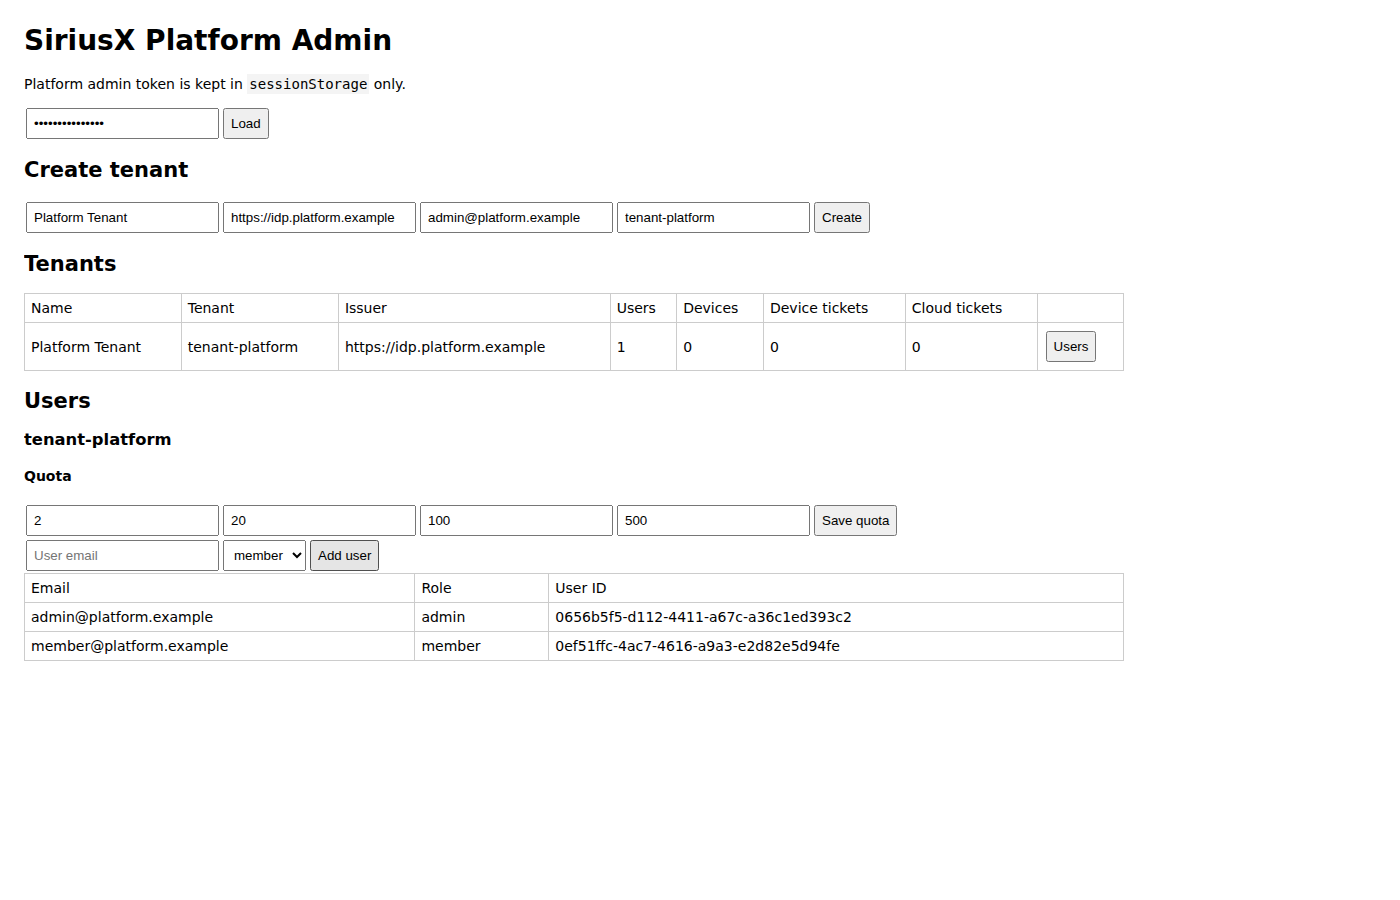
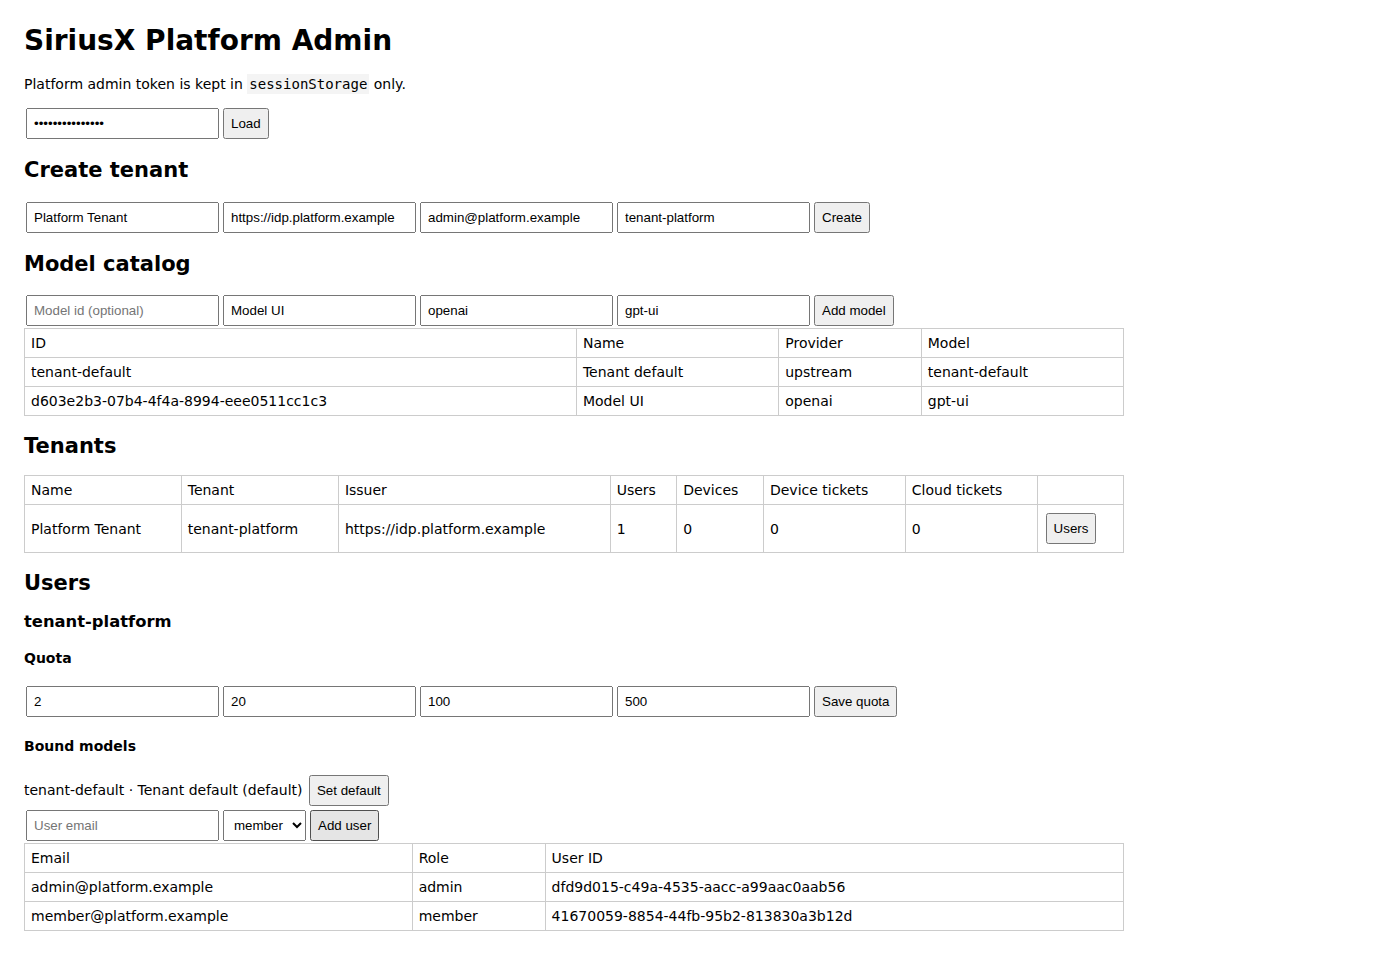
feat: add a tenant model catalog and binding UI

diff --git a/apps/control-plane/src/server.ts b/apps/control-plane/src/server.ts
@@ -99,6 +99,7 @@ export async function startControlPlaneServer(options: ControlPlaneServerOptions
 <p>Platform admin token is kept in <code>sessionStorage</code> only.</p>
 <div><input id="token" type="password" placeholder="X-SiriusX-Platform-Token"><button id="load">Load</button></div>
 <div id="create"><h2>Create tenant</h2><input id="name" placeholder="Name"><input id="issuer" placeholder="IdP issuer"><input id="email" placeholder="Admin email"><input id="tenantId" placeholder="Tenant id (optional)"><button id="createTenant">Create</button></div>
+<div id="models"><h2>Model catalog</h2><input id="modelId" placeholder="Model id (optional)"><input id="modelName" placeholder="Display name"><input id="modelProvider" placeholder="Provider"><input id="modelNameId" placeholder="Provider model id"><button id="createModel">Add model</button><div id="modelList">Load to begin.</div></div>
 <h2>Tenants</h2><div id="tenants">Load to begin.</div>
 <h2 id="usersTitle" style="display:none">Users</h2><div id="users"></div>
 <div id="error" style="color:#b00020"></div>
@@ -108,6 +109,13 @@ const headers = () => ({'x-siriusx-platform-token': token(), 'content-type': 'ap
 const err = e => document.getElementById('error').textContent = e instanceof Error ? e.message : String(e);
 async function api(path, init = {}) { const r = await fetch(path, {...init, headers: headers()}); const v = await r.json(); if (!r.ok) throw new Error(v.error || ('HTTP ' + r.status)); return v; }
 function row(text) { const tr = document.createElement('tr'); for (const value of text) { const td = document.createElement('td'); td.textContent = String(value); tr.append(td); } return tr; }
+async function loadModels() {
+  const data = await api('/v1/admin/models');
+  const host = document.getElementById('modelList'); host.textContent = '';
+  const table = document.createElement('table'); table.append(row(['ID','Name','Provider','Model']));
+  for (const model of data.models) table.append(row([model.id, model.name, model.provider, model.model]));
+  host.append(table);
+}
 async function loadTenants() {
   err('');
   const data = await api('/v1/admin/tenants');
@@ -128,13 +136,17 @@ async function loadUsers(tenantId) {
   const q = document.createElement('div'); q.innerHTML = '<h4>Quota</h4><input id="maxUsers" placeholder="Max users"><input id="maxDevices" placeholder="Max devices"><input id="maxCloud" placeholder="Max cloud/day"><input id="maxDevice" placeholder="Max device tickets/day"><button id="saveQuota">Save quota</button>'; host.append(q);
   q.querySelector('#maxUsers').value = quota.quota.maxUsers; q.querySelector('#maxDevices').value = quota.quota.maxDevices; q.querySelector('#maxCloud').value = quota.quota.maxCloudTicketsPerDay; q.querySelector('#maxDevice').value = quota.quota.maxDeviceTicketsPerDay;
   q.querySelector('#saveQuota').onclick = async () => { try { await api('/v1/admin/tenants/' + encodeURIComponent(tenantId) + '/quota', {method:'PUT', body: JSON.stringify({maxUsers:Number(q.querySelector('#maxUsers').value), maxDevices:Number(q.querySelector('#maxDevices').value), maxCloudTicketsPerDay:Number(q.querySelector('#maxCloud').value), maxDeviceTicketsPerDay:Number(q.querySelector('#maxDevice').value)})}); await loadUsers(tenantId); } catch (e) { err(e); } };
+  const tm = await api('/v1/admin/tenants/' + encodeURIComponent(tenantId) + '/models');
+  const modelBox = document.createElement('div'); modelBox.innerHTML = '<h4>Bound models</h4>'; host.append(modelBox);
+  for (const model of tm.models) { const div = document.createElement('div'); div.textContent = model.id + ' · ' + model.name + (model.isDefault ? ' (default)' : '') + ' '; const button = document.createElement('button'); button.textContent = 'Set default'; button.onclick = async () => { try { await api('/v1/admin/tenants/' + encodeURIComponent(tenantId) + '/models/' + encodeURIComponent(model.id), {method:'PUT', body: JSON.stringify({isDefault:true})}); await loadUsers(tenantId); } catch (e) { err(e); } }; div.append(button); modelBox.append(div); }
   const add = document.createElement('div'); add.innerHTML = '<input id="newEmail" placeholder="User email"><select id="newRole"><option>member</option><option>admin</option></select><button id="addUser">Add user</button>'; host.append(add);
   add.querySelector('#addUser').onclick = async () => { try { await api('/v1/admin/tenants/' + encodeURIComponent(tenantId) + '/users', {method:'POST', body: JSON.stringify({email: add.querySelector('#newEmail').value, role: add.querySelector('#newRole').value})}); await loadUsers(tenantId); } catch (e) { err(e); } };
   const table = document.createElement('table'); table.append(row(['Email','Role','User ID']));
   for (const user of data.users) table.append(row([user.email, user.role, user.userId]));
   host.append(table);
 }
-document.getElementById('load').onclick = async () => { try { sessionStorage.setItem('platformToken', document.getElementById('token').value); await loadTenants(); } catch (e) { err(e); } };
+document.getElementById('load').onclick = async () => { try { sessionStorage.setItem('platformToken', document.getElementById('token').value); await Promise.all([loadTenants(), loadModels()]); } catch (e) { err(e); } };
+document.getElementById('createModel').onclick = async () => { try { await api('/v1/admin/models', {method:'POST', body: JSON.stringify({id: document.getElementById('modelId').value || undefined, name: document.getElementById('modelName').value, provider: document.getElementById('modelProvider').value, model: document.getElementById('modelNameId').value})}); await loadModels(); } catch (e) { err(e); } };
 document.getElementById('createTenant').onclick = async () => { try { await api('/v1/admin/tenants', {method:'POST', body: JSON.stringify({name:document.getElementById('name').value, idpIssuer:document.getElementById('issuer').value, adminEmail:document.getElementById('email').value, ...(document.getElementById('tenantId').value === '' ? {} : {tenantId:document.getElementById('tenantId').value})})}); await loadTenants(); } catch (e) { err(e); } };
 </script>`)
         return
@@ -208,6 +220,24 @@ document.getElementById('createTenant').onclick = async () => { try { await api(
           write(response, 201, { tenant })
           return
         }
+        if (parts[2] === 'models' && parts[3] === undefined) {
+          if (request.method === 'GET') { write(response, 200, { models: control.listModelCatalog() }); return }
+          if (request.method === 'POST') {
+            const body = await readJson(request)
+            if (typeof body.name !== 'string' || typeof body.provider !== 'string' || typeof body.model !== 'string') throw new Error('name, provider and model are required')
+            write(response, 201, control.addModel({ name: body.name, provider: body.provider, model: body.model, ...(typeof body.id === 'string' ? { id: body.id } : {}) }))
+            return
+          }
+        }
+        if (parts[2] === 'tenants' && parts[3] !== undefined && parts[4] === 'models') {
+          if (request.method === 'GET' && parts[5] === undefined) { write(response, 200, { models: control.listTenantModels(parts[3]) }); return }
+          if (request.method === 'PUT' && parts[5] !== undefined) {
+            const body = await readJson(request)
+            control.bindTenantModel(parts[3], parts[5], body.isDefault === true)
+            write(response, 200, { models: control.listTenantModels(parts[3]) })
+            return
+          }
+        }
         if (parts[2] === 'tenants' && parts[3] !== undefined && parts[4] === 'quota' && parts[5] === undefined) {
           if (request.method === 'GET') { write(response, 200, { quota: control.getQuota(parts[3]), usage: control.tenantUsage(parts[3]) }); return }
           if (request.method === 'PUT') {
@@ -248,6 +278,16 @@ document.getElementById('createTenant').onclick = async () => { try { await api(
       }
       if (request.method === 'GET' && url.pathname === '/v1/quota') {
         write(response, 200, { quota: control.getQuota(session.tenantId), usage: control.tenantUsage(session.tenantId) })
+        return
+      }
+      if (request.method === 'GET' && url.pathname === '/v1/models') {
+        write(response, 200, { models: control.listTenantModels(session.tenantId) })
+        return
+      }
+      if (request.method === 'PUT' && parts[0] === 'v1' && parts[1] === 'models' && parts[2] !== undefined && parts[3] === 'default') {
+        if (session.role !== 'admin') throw new ControlPlaneError(403, 'ADMIN_REQUIRED', 'admin role required')
+        control.bindTenantModel(session.tenantId, parts[2], true)
+        write(response, 200, { models: control.listTenantModels(session.tenantId) })
         return
       }
       if (parts[0] === 'v1' && parts[1] === 'users') {

diff --git a/apps/control-plane/src/index.ts b/apps/control-plane/src/index.ts
@@ -103,6 +103,20 @@ CREATE TABLE IF NOT EXISTS pairing_codes (
   expires_at INTEGER NOT NULL,
   consumed_at INTEGER
 );
+CREATE TABLE IF NOT EXISTS model_catalog (
+  id TEXT PRIMARY KEY,
+  name TEXT NOT NULL,
+  provider TEXT NOT NULL,
+  model TEXT NOT NULL,
+  enabled INTEGER NOT NULL DEFAULT 1,
+  created_at INTEGER NOT NULL
+);
+CREATE TABLE IF NOT EXISTS tenant_models (
+  tenant_id TEXT NOT NULL REFERENCES tenants(id),
+  model_id TEXT NOT NULL REFERENCES model_catalog(id),
+  is_default INTEGER NOT NULL DEFAULT 0,
+  PRIMARY KEY (tenant_id, model_id)
+);
 CREATE TABLE IF NOT EXISTS tenant_quotas (
   tenant_id TEXT PRIMARY KEY REFERENCES tenants(id),
   max_users INTEGER NOT NULL,
@@ -195,6 +209,8 @@ export class ControlPlane {
     this.#dataDir = options.dataDir
     this.#secret = options.sessionSecret ?? randomBytes(32).toString('base64url')
     this.#now = options.now ?? Date.now
+    this.#db.prepare('INSERT OR IGNORE INTO model_catalog (id, name, provider, model, enabled, created_at) VALUES (?, ?, ?, ?, 1, ?)').run('tenant-default', 'Tenant default', 'upstream', 'tenant-default', this.#now())
+    this.#db.prepare('INSERT OR IGNORE INTO tenant_models (tenant_id, model_id, is_default) SELECT id, ?, 1 FROM tenants').run('tenant-default')
     this.#db.prepare('INSERT OR IGNORE INTO tenant_quotas (tenant_id, max_users, max_devices, max_cloud_tickets_per_day, max_device_tickets_per_day, updated_at) SELECT id, 50, 20, 100, 500, ? FROM tenants').run(this.#now())
     const deviceColumns = this.#db.prepare('PRAGMA table_info(devices)').all() as Array<{ name: string }>
     if (!deviceColumns.some(column => column.name === 'token_expires_at')) this.#db.exec('ALTER TABLE devices ADD COLUMN token_expires_at INTEGER')
@@ -226,6 +242,7 @@ export class ControlPlane {
       this.#db.prepare('INSERT INTO tenants (id, name, idp_issuer, created_at) VALUES (?, ?, ?, ?)')
         .run(id, input.name, input.idpIssuer, now)
       this.#db.prepare('INSERT INTO settings (tenant_id) VALUES (?)').run(id)
+      this.#db.prepare('INSERT OR IGNORE INTO tenant_models (tenant_id, model_id, is_default) VALUES (?, ?, 1)').run(id, 'tenant-default')
       this.#db.prepare('INSERT INTO tenant_quotas (tenant_id, max_users, max_devices, max_cloud_tickets_per_day, max_device_tickets_per_day, updated_at) VALUES (?, 50, 20, 100, 500, ?)').run(id, now)
       this.#db.prepare('INSERT INTO users (id, tenant_id, email, role, created_at) VALUES (?, ?, ?, ?, ?)')
         .run(randomUUID(), id, input.adminEmail, 'admin', now)
@@ -241,6 +258,33 @@ export class ControlPlane {
     return (this.#db.prepare('SELECT * FROM tenants ORDER BY created_at, rowid').all() as Array<{
       id: string; name: string; idp_issuer: string; created_at: number
     }>).map(row => ({ id: row.id, name: row.name, idpIssuer: row.idp_issuer, createdAt: row.created_at }))
+  }
+
+  listModelCatalog(): Array<{ id: string; name: string; provider: string; model: string; enabled: boolean }> {
+    return (this.#db.prepare('SELECT * FROM model_catalog ORDER BY created_at, rowid').all() as Array<{
+      id: string; name: string; provider: string; model: string; enabled: number
+    }>).map(row => ({ id: row.id, name: row.name, provider: row.provider, model: row.model, enabled: row.enabled === 1 }))
+  }
+
+  addModel(input: { id?: string; name: string; provider: string; model: string }): { id: string } {
+    const id = input.id ?? randomUUID()
+    this.#db.prepare('INSERT INTO model_catalog (id, name, provider, model, enabled, created_at) VALUES (?, ?, ?, ?, 1, ?)').run(id, input.name, input.provider, input.model, this.#now())
+    return { id }
+  }
+
+  listTenantModels(tenantId: string): Array<{ id: string; name: string; provider: string; model: string; isDefault: boolean }> {
+    this.tenantRow(tenantId)
+    return (this.#db.prepare('SELECT c.*, tm.is_default FROM tenant_models tm JOIN model_catalog c ON c.id = tm.model_id WHERE tm.tenant_id = ? AND c.enabled = 1 ORDER BY tm.is_default DESC, c.created_at').all(tenantId) as Array<{
+      id: string; name: string; provider: string; model: string; is_default: number
+    }>).map(row => ({ id: row.id, name: row.name, provider: row.provider, model: row.model, isDefault: row.is_default === 1 }))
+  }
+
+  bindTenantModel(tenantId: string, modelId: string, isDefault = false): void {
+    this.tenantRow(tenantId)
+    const model = this.#db.prepare('SELECT id FROM model_catalog WHERE id = ? AND enabled = 1').get(modelId) as { id: string } | undefined
+    if (model === undefined) throw new ControlPlaneError(404, 'MODEL_NOT_FOUND', modelId)
+    if (isDefault) this.#db.prepare('UPDATE tenant_models SET is_default = 0 WHERE tenant_id = ?').run(tenantId)
+    this.#db.prepare('INSERT OR REPLACE INTO tenant_models (tenant_id, model_id, is_default) VALUES (?, ?, ?)').run(tenantId, modelId, isDefault ? 1 : 0)
   }
 
   getQuota(tenantId: string): { maxUsers: number; maxDevices: number; maxCloudTicketsPerDay: number; maxDeviceTicketsPerDay: number } {

diff --git a/evidence/S5/15-platform-admin-ui/run.ts b/evidence/S5/15-platform-admin-ui/run.ts
@@ -15,13 +15,20 @@ try {
   await page.getByPlaceholder('X-SiriusX-Platform-Token').fill('platform-secret')
   await page.getByRole('button', { name: 'Load' }).click()
   await page.waitForTimeout(300)
-  await page.getByPlaceholder('Name').fill('Platform Tenant')
+  await page.getByPlaceholder('Display name').fill('Model UI')
+  await page.getByPlaceholder('Provider', { exact: true }).fill('openai')
+  await page.getByPlaceholder('Provider model id').fill('gpt-ui')
+  await page.getByRole('button', { name: 'Add model' }).click()
+  await page.waitForTimeout(400)
+  await page.getByPlaceholder('Name', { exact: true }).fill('Platform Tenant')
   await page.getByPlaceholder('IdP issuer').fill('https://idp.platform.example')
   await page.getByPlaceholder('Admin email').fill('admin@platform.example')
   await page.getByPlaceholder('Tenant id (optional)').fill('tenant-platform')
   await page.getByRole('button', { name: 'Create' }).click()
   await page.waitForTimeout(500)
   await page.getByRole('button', { name: 'Users' }).first().click()
+  await page.waitForTimeout(300)
+  await page.getByRole('button', { name: 'Set default' }).first().click()
   await page.waitForTimeout(300)
   await page.getByPlaceholder('Max users').fill('2')
   await page.getByRole('button', { name: 'Save quota' }).click()
@@ -31,9 +38,9 @@ try {
   await page.waitForTimeout(500)
   const body = await page.locator('body').innerText()
   await page.screenshot({ path: '/root/siriusx/evidence/S5/15-platform-admin-ui/admin.png', fullPage: true })
-  const result = { tenant: body.includes('tenant-platform'), usage: body.includes('Platform Tenant'), quota: body.includes('Quota') && body.includes('Save quota'), user: body.includes('member@platform.example'), errors }
+  const result = { tenant: body.includes('tenant-platform'), usage: body.includes('Platform Tenant'), quota: body.includes('Quota') && body.includes('Save quota'), model: body.includes('Model UI') && body.includes('Bound models'), user: body.includes('member@platform.example'), errors }
   console.log(JSON.stringify(result, null, 2))
-  if (!result.tenant || !result.usage || !result.quota || !result.user || errors.length > 0) process.exitCode = 1
+  if (!result.tenant || !result.usage || !result.quota || !result.model || !result.user || errors.length > 0) process.exitCode = 1
 } finally {
   await browser.close(); await server.close(); await rm(root, { recursive: true, force: true })
 }

diff --git a/apps/control-plane/tests/control-plane.spec.ts b/apps/control-plane/tests/control-plane.spec.ts
@@ -448,4 +448,16 @@ describe('control plane', () => {
     expect(() => plane.createCloudTicket(session, { repoUrl: 'https://github.com/acme/repo.git', baseRef: 'main', prompt: 'quota' })).toThrow('cloudTickets quota exceeded')
   })
 
+  it('binds tenant model catalog entries', async () => {
+    const { plane } = await setup()
+    const tenant = plane.provisionTenant({ tenantId: 'tenant-models', name: 'Models', idpIssuer: 'https://idp.example', adminEmail: 'admin@models.example' })
+    expect(plane.listTenantModels(tenant.id)).toEqual([expect.objectContaining({ id: 'tenant-default', isDefault: true })])
+    plane.addModel({ id: 'model-a', name: 'Model A', provider: 'openai', model: 'gpt-x' })
+    plane.bindTenantModel(tenant.id, 'model-a', true)
+    expect(plane.listTenantModels(tenant.id)).toEqual([
+      expect.objectContaining({ id: 'model-a', isDefault: true }),
+      expect.objectContaining({ id: 'tenant-default', isDefault: false }),
+    ])
+  })
+
 })

diff --git a/apps/control-plane/src/model-gateway.ts b/apps/control-plane/src/model-gateway.ts
@@ -51,7 +51,7 @@ export async function startModelGateway(options: ModelGatewayOptions): Promise<M
         write(response, 200, {
           object: 'list',
           tenantId: session.tenantId,
-          data: [{ id: 'tenant-default', object: 'model', owned_by: session.tenantId }],
+          data: options.control.listTenantModels(session.tenantId).map(model => ({ id: model.id, object: 'model', owned_by: session.tenantId, name: model.name, provider: model.provider, default: model.isDefault })),
         })
         return
       }

diff --git a/docs/status.md b/docs/status.md
@@ -8,7 +8,7 @@
 | S3 本机闭环 | `packages/executor-local`、`plugins/executor-local`、`apps/autobot` | `evidence/S3/` | **完成**：真实 DSH AgentLoop、Bot/DSH Web Host SIGKILL/重启、模型断线、previews/TTL/进程组清理/env 隔离/symlink 越界防护、lost 自动 resume 重试、sandbox orphan sweep + systemd timer 通过；tag `executor-v0.1.0` |
 | S4 工单界面 | 四个独立 client package + `packages/app-contract` + `apps/autobot/src/server.ts` | `evidence/S4/` | **部分**：发起/阶段/diff/排序/断线清空/审批/慢任务打断、四插件拆分通过；10 天自用待补 |
 | S5 登录/租户 | `plugins/account-sso`、`apps/control-plane`（含 device gateway/model gateway）、Desktop enterprise gate | `evidence/S5/` | **部分**：OIDC/隔离/配对/长连接/模型网关/隐私 badge/个人 Bot 派工/原生入口管理员开关、全栈离线一键安装、session TTL 过期拒绝、server-side revocation、server-side authority 通过；真实 IdP、KMS 待补 |
-| S6 工具网关 | `apps/tool-gateway`、`packages/analytics`、local_dir 上行过滤 | `evidence/S6/` | **部分**：审批过期 sweep/审计/fail-closed/分级/Bot 事件接线/完整 ticket trace + audit chain 状态 + tenant-scoped audit、管理面 API/UI + 平台运营 `/admin` + tenant quota enforcement、tool-gateway 默认无 wildcard CORS、audit hash chain + verify endpoint/Vault KV v1+v2、TTL 轮换与 fail-closed 凭据适配、模型 key 抓包隔离、agent env/audit 凭据隔离、设备离线宽限 lost + 宽限期内重连恢复通过；真实 KMS/Vault 待补 |
+| S6 工具网关 | `apps/tool-gateway`、`packages/analytics`、local_dir 上行过滤 | `evidence/S6/` | **部分**：审批过期 sweep/审计/fail-closed/分级/Bot 事件接线/完整 ticket trace + audit chain 状态 + tenant-scoped audit、管理面 API/UI + 平台运营 `/admin` + tenant quota enforcement、model catalog/binding、tool-gateway 默认无 wildcard CORS、audit hash chain + verify endpoint/Vault KV v1+v2、TTL 轮换与 fail-closed 凭据适配、模型 key 抓包隔离、agent env/audit 凭据隔离、设备离线宽限 lost + 宽限期内重连恢复通过；真实 KMS/Vault 待补 |
 | S7 云执行 | `packages/cloud-executor`、`packages/kernel-acp` | `evidence/S7/` | **部分**：Docker/ACP/真实 dsh+pi（含 sandbox）/同工单内核一致性、本地/云端 DSH 事件序列一致性、ACP 边界/卷并发决策/云端 repo clone/沙箱 dispose/assignment timeout/资源限额+cap-drop/no-new-privileges+env+出口 allowlist/SQLite 恢复/GitHub/GitLab connector、gateway 审批写、mock Issue→MR 通过；真实平台 Issue→MR、M2 真崩溃待补 |
 | S8 发布 | `plugins/brand-siriusx`、`deploy/release`、`deploy/offline` | `evidence/S8/` | **部分**：品牌/图标/打包参数、Linux 全依赖离线 tar（含 sandbox image）、DSH Web 离线镜像、全栈 Compose、internal 网络隔离、断网 Debian 容器安装、native/Docker 单机安装、全栈离线一键包、health version/commit、`/ready` 就绪探针、Compose healthcheck、企业插件 bundle/资源清单、更新源 static feed（realpath 防 traversal）、本地发布门禁、脚本可移植性检查、发布清单、CycloneDX SBOM（transitive + license）+ license policy gate、补丁回移演练通过；mac/win 签名安装与全服务干净机验收待补 |
 | S9 Web | DSH Web Host + Team panel control-plane 模式 | `evidence/S9/` | **部分**：同插件复用、两租户隔离、HttpOnly cookie 同源网关、OIDC state cookie 绑定、浏览器 OIDC（本地 HS256/RS256 JWKS IdP）登录并看工单、同工单跨接入模式渲染一致、无原生对话/本地目录入口、Web 审批、HTTP/WS Origin 校验（支持 forwarded headers）、登录限流/trusted proxy IP、1 MiB 请求体/WS frame 上限、Secure cookie、login CSP/HSTS、local logout / OIDC RP-initiated logout、云端 repo URL 校验、项目发起/打断/重启对账/follow-up（API + Team UI，Docker+fake ACP）通过；真实企业 IdP/真实 agent 待补 |

diff --git a/TODO.md b/TODO.md
@@ -65,6 +65,7 @@
 - [x] Management plane UI（tenant settings/users/role）
 - [x] Platform admin `/admin` UI（租户列表/创建/usage/users）
 - [x] Tenant quotas + usage enforcement（users/devices/tickets）
+- [x] Model catalog + tenant model binding（backend + /admin UI）
 - [x] Web Gateway 支持 X-Forwarded-Proto/Host 的 HTTPS Origin
 - [x] Trusted proxy 下的登录限流按 X-Forwarded-For 区分客户端
 - [x] HTTPS 下返回 HSTS

diff --git a/evidence/S5/15-platform-admin-ui/README.md b/evidence/S5/15-platform-admin-ui/README.md
@@ -13,6 +13,7 @@ Control Plane 新增独立 `/admin` 页面：
 - 创建 `tenant-platform`
 - 页面显示 Platform Tenant 与 usage 计数
 - 新增 `member@platform.example`
+- 新增 Model UI，保存租户 quota，默认模型设置
 - console errors 为空
 
 CSP：
